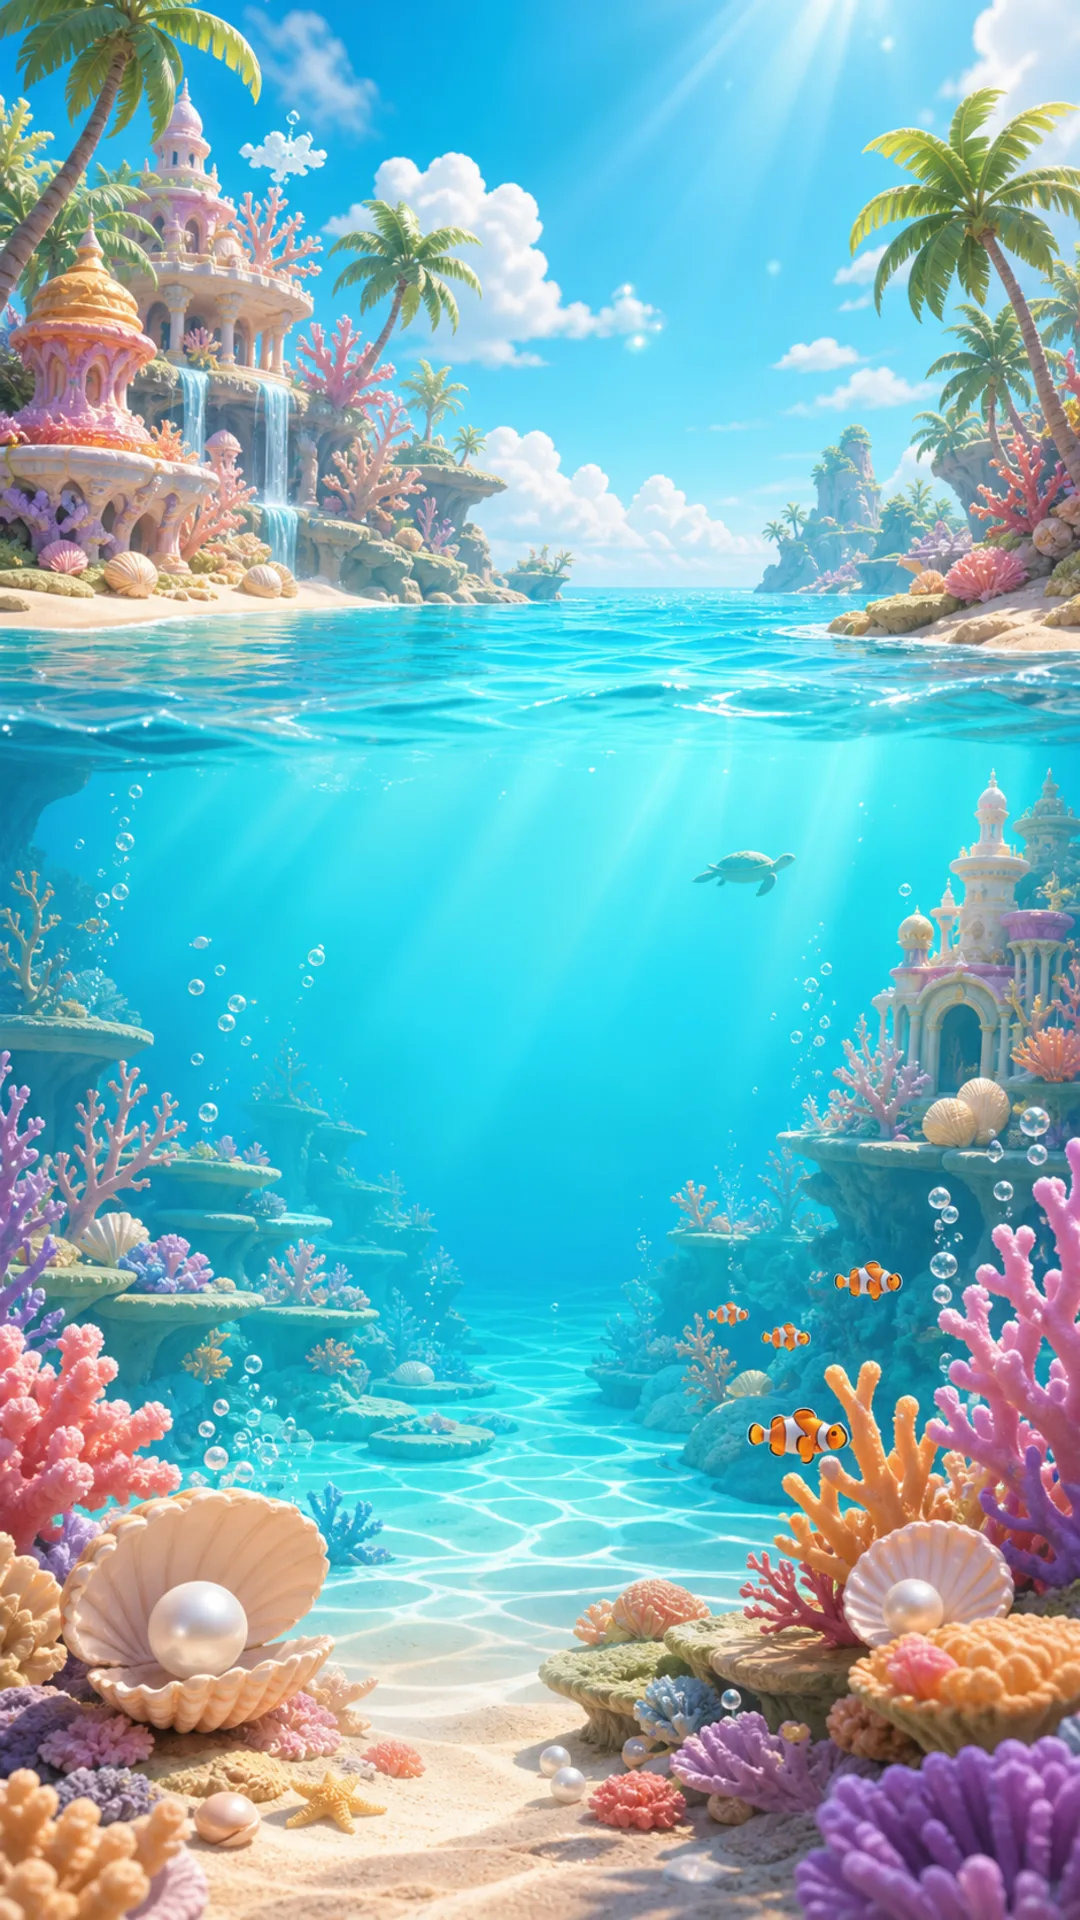
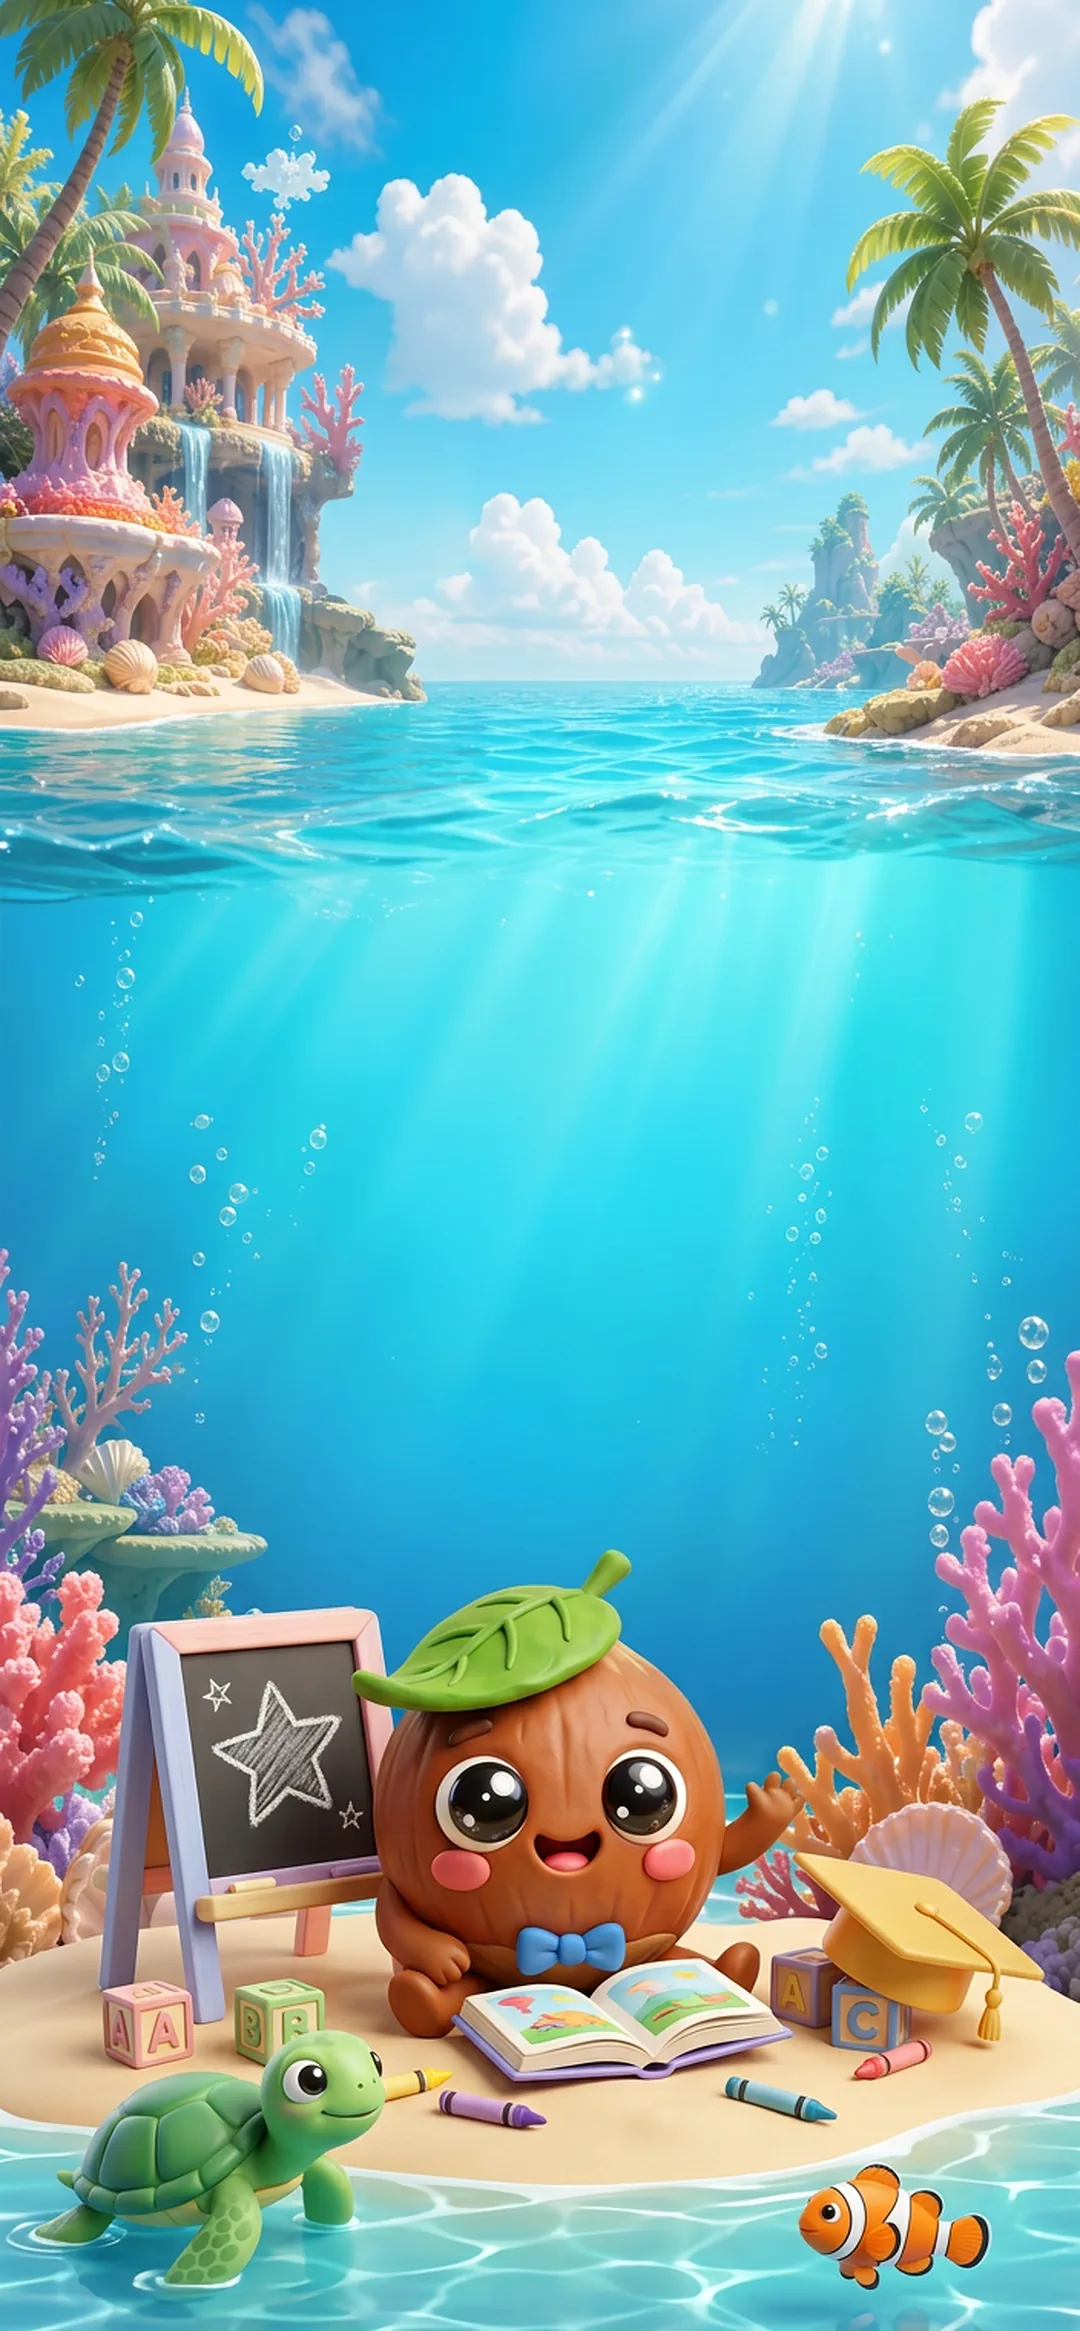
feat(splash): پسزمینهٔ اسپلش با فندقی در حال یادگیری در جزیره
پسزمینهٔ قبلی فقط منظرهٔ مرجانی/زیرآب بود و شخصیت اپ در آن نبود.
تصویر جدید فندقی را روی ساحل جزیره در حال یادگیری نشان میدهد
(تختهسیاه، کتاب باز، مکعبهای الفبا، کلاه فارغالتحصیلی، مدادشمعی)
با همان پالت فیروزهای/مرجانی که بقیهٔ اپ دارد.

- assets/gateway/coral_island_bg.webp بازتولید شد: ۱۰۸۰×۲۳۳۱ (۹:۱۹٫۵،
  مطابق نسبت گوشیهای امروزی)، ۱۹۰KB — از ۲۴۰KB قبلی سبکتر است.
  نام فایل عمداً حفظ شد تا pubspec و tools/promo_video دستنخورده بمانند.
- alignment تصویر به bottomCenter تغییر کرد؛ سوژه پایین قاب است و با
  لنگر مرکزی روی نمایشگرهای ۱۶:۹ و ۱۸:۹ سرِ فندقی بریده میشد.
- خوانایی متن: یک RadialGradient ملایم پشت عنوان + سایه روی هر سه متن.
  آبِ فیروزهای روشن است و متن سفید (بهویژه زیرعنوان white70) روی آن
  محو میشد. زیرعنوان به سفید کامل با وزن w600 ارتقا یافت.
- عنوان shimmer داخل ShaderMask بود و سایهٔ TextStyle را میبلعید؛ سایه
  به یک لایهٔ Text زیرین منتقل شد تا افکت درخشش دستنخورده بماند.
- CODE_REVIEW_DEEP_DIVE.md: ابعاد ذکرشدهٔ همین asset بهروز شد.

diff --git a/lib/features/splash/splash_screen.dart b/lib/features/splash/splash_screen.dart
@@ -99,7 +99,9 @@ class _SplashState extends State<SplashScreen>
               child: Image.asset(
                 'assets/gateway/coral_island_bg.webp',
                 fit: BoxFit.cover,
-                alignment: Alignment.center,
+                // فندقی و وسایل یادگیریاش پایین قاب هستند؛ با لنگر پایین
+                // روی نمایشگرهای کوتاهتر یا پهنتر هم بریده نمیشوند.
+                alignment: Alignment.bottomCenter,
               ),
             ),
             Positioned.fill(
@@ -113,6 +115,27 @@ class _SplashState extends State<SplashScreen>
                       Colors.transparent,
                       const Color(0xFF023E8A).withOpacity(0.45),
                     ],
+                  ),
+                ),
+              ),
+            ),
+            // هالهٔ نرم پشت عنوان: آبِ فیروزهای روشن است و متن سفید روی آن
+            // گم میشد. این لایه فقط مرکز قاب را کمی عمق میدهد و لبهها و
+            // خودِ فندقی را دستنخورده میگذارد.
+            Positioned.fill(
+              child: IgnorePointer(
+                child: DecoratedBox(
+                  decoration: BoxDecoration(
+                    gradient: RadialGradient(
+                      center: const Alignment(0, -0.22),
+                      radius: 0.95,
+                      colors: [
+                        const Color(0xFF012A5E).withOpacity(0.42),
+                        const Color(0xFF012A5E).withOpacity(0.18),
+                        Colors.transparent,
+                      ],
+                      stops: const [0.0, 0.55, 1.0],
+                    ),
                   ),
                 ),
               ),
@@ -142,7 +165,7 @@ class _SplashState extends State<SplashScreen>
                         fontSize: 18,
                         color: Colors.white,
                         fontWeight: FontWeight.w800,
-                      ),
+                      ).copyWith(shadows: _textShadows),
                     ),
                   ),
                   const SizedBox(height: 18),
@@ -170,10 +193,11 @@ class _SplashState extends State<SplashScreen>
                         'دنیای یادگیری و بازی',
                         style: AppFonts.vazirmatn(
                           fontSize: 18,
-                          color: Colors.white70,
-                          fontWeight: FontWeight.w500,
+                          // روی آبِ روشن، white70 تقریباً محو میشد.
+                          color: Colors.white,
+                          fontWeight: FontWeight.w600,
                           letterSpacing: 1.5,
-                        ),
+                        ).copyWith(shadows: _textShadows),
                       ),
                     ),
                   ),
@@ -294,36 +318,68 @@ class _SplashState extends State<SplashScreen>
     );
   }
 
+  /// سایهٔ مشترک متنهای اسپلش — پسزمینه آبِ فیروزهای روشن است و متن سفید
+  /// بدون سایه روی آن گم میشود.
+  static const List<Shadow> _textShadows = [
+    Shadow(color: Color(0x99012A5E), blurRadius: 12, offset: Offset(0, 2)),
+    Shadow(color: Color(0x66012A5E), blurRadius: 26),
+  ];
+
   Widget _buildShimmerText() {
     return AnimatedBuilder(
       animation: _glowCtrl,
       builder: (_, __) {
-        return ShaderMask(
-          shaderCallback: (bounds) {
-            return LinearGradient(
-              colors: const [
-                Color(0xFFFFFFFF),
-                Color(0xFFFFD700),
-                Color(0xFFFFFFFF),
-              ],
-              stops: [
-                (_glowCtrl.value - 0.3).clamp(0.0, 1.0).toDouble(),
-                _glowCtrl.value,
-                (_glowCtrl.value + 0.3).clamp(0.0, 1.0).toDouble(),
-              ],
-            ).createShader(bounds);
-          },
-          child: Text(
-            'جزیره فندقی',
-            style: AppFonts.vazirmatn(
-              fontSize: 48,
-              fontWeight: FontWeight.w900,
-              color: Colors.white,
-              letterSpacing: 2,
+        // ShaderMask رنگ متن را بازنویسی میکند و سایهٔ داخل TextStyle را
+        // میبلعد؛ پس سایه را زیر آن بهصورت یک لایهٔ جدا میگذاریم.
+        return Stack(
+          alignment: Alignment.center,
+          children: [
+            Text(
+              'جزیره فندقی',
+              style: AppFonts.vazirmatn(
+                fontSize: 48,
+                fontWeight: FontWeight.w900,
+                color: Colors.transparent,
+                letterSpacing: 2,
+              ).copyWith(shadows: _titleShadows),
             ),
-          ),
+            _buildShimmerLayer(),
+          ],
         );
       },
+    );
+  }
+
+  static const List<Shadow> _titleShadows = [
+    Shadow(color: Color(0xB3012A5E), blurRadius: 18, offset: Offset(0, 3)),
+    Shadow(color: Color(0x80012A5E), blurRadius: 38),
+  ];
+
+  Widget _buildShimmerLayer() {
+    return ShaderMask(
+      shaderCallback: (bounds) {
+        return LinearGradient(
+          colors: const [
+            Color(0xFFFFFFFF),
+            Color(0xFFFFD700),
+            Color(0xFFFFFFFF),
+          ],
+          stops: [
+            (_glowCtrl.value - 0.3).clamp(0.0, 1.0).toDouble(),
+            _glowCtrl.value,
+            (_glowCtrl.value + 0.3).clamp(0.0, 1.0).toDouble(),
+          ],
+        ).createShader(bounds);
+      },
+      child: Text(
+        'جزیره فندقی',
+        style: AppFonts.vazirmatn(
+          fontSize: 48,
+          fontWeight: FontWeight.w900,
+          color: Colors.white,
+          letterSpacing: 2,
+        ),
+      ),
     );
   }
 

diff --git a/CODE_REVIEW_DEEP_DIVE.md b/CODE_REVIEW_DEEP_DIVE.md
@@ -124,7 +124,7 @@ features/* ──→ core/growth/growth
 
 ### D2. تصویر
 
-- فقط **یک** تصویر بیش از ۱۶۰۰px پیدا شد (`coral_island_bg.webp` ۱۰۸۰×۱۹۲۰) که پسزمینه تمامصفحه است و منطقی است. ✅
+- فقط **یک** تصویر بیش از ۱۶۰۰px پیدا شد (`coral_island_bg.webp` ۱۰۸۰×۲۳۳۱) که پسزمینه تمامصفحه است و منطقی است. ✅
 - پوسترهای کارتونی ۱۴۰۸×۷۶۸ با حجم ۲۰۰–۳۵۰KB؛ برای کاشیهای لیست (نمایش ~۳۰۰px) بیش از حد سنگیناند. دو نسخه (thumb ~384px + full) یا re-encode با quality ۷۰–۷۵ → برآورد **۱٫۲–۱٫۵MB** صرفهجویی در `cartoons/` + `lullabies/` + `stories/`.
 - `app_icon.png` (۷۱۱KB) + `app_icon_foreground.png` (۶۶۵KB): فقط خوراک تولید آیکوناند؛ حذف از بخش `flutter: assets` → **۱٫۳۷MB** صرفهجویی خالص.
 
